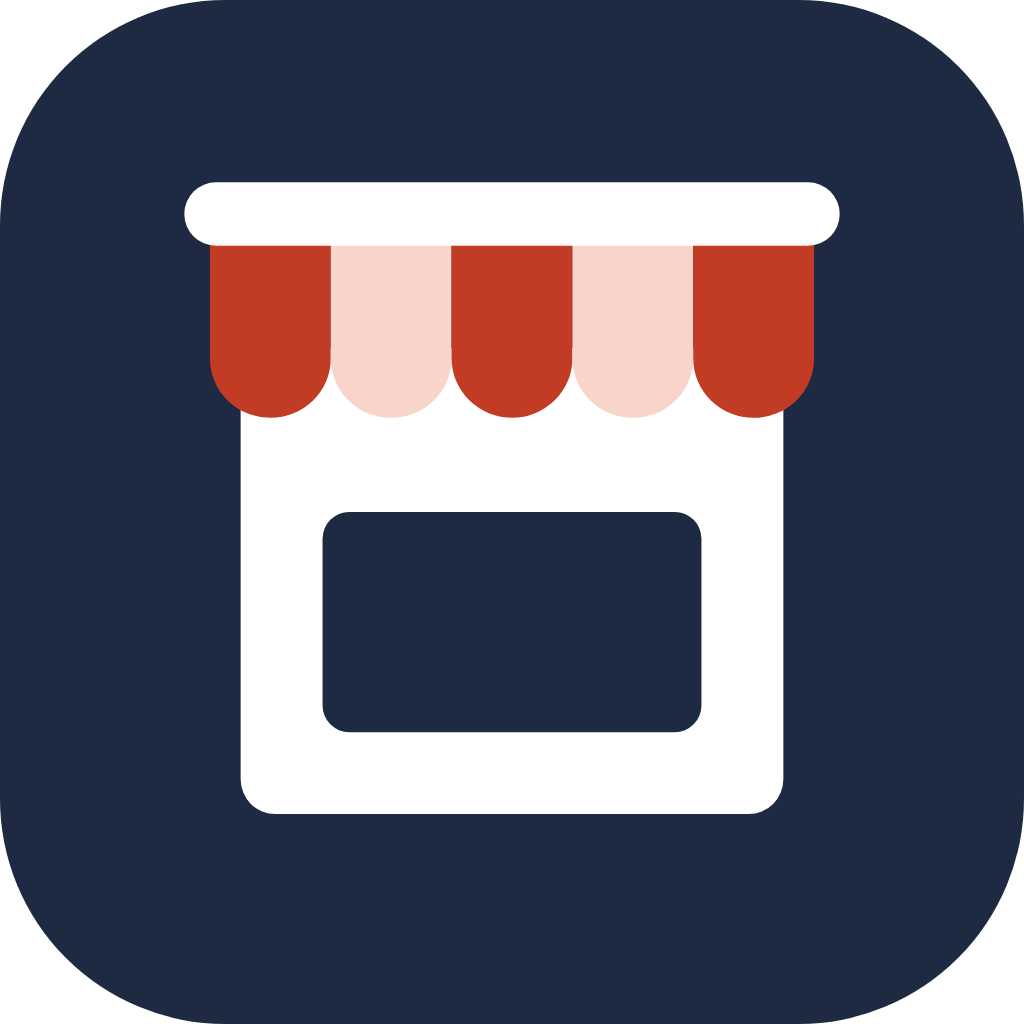
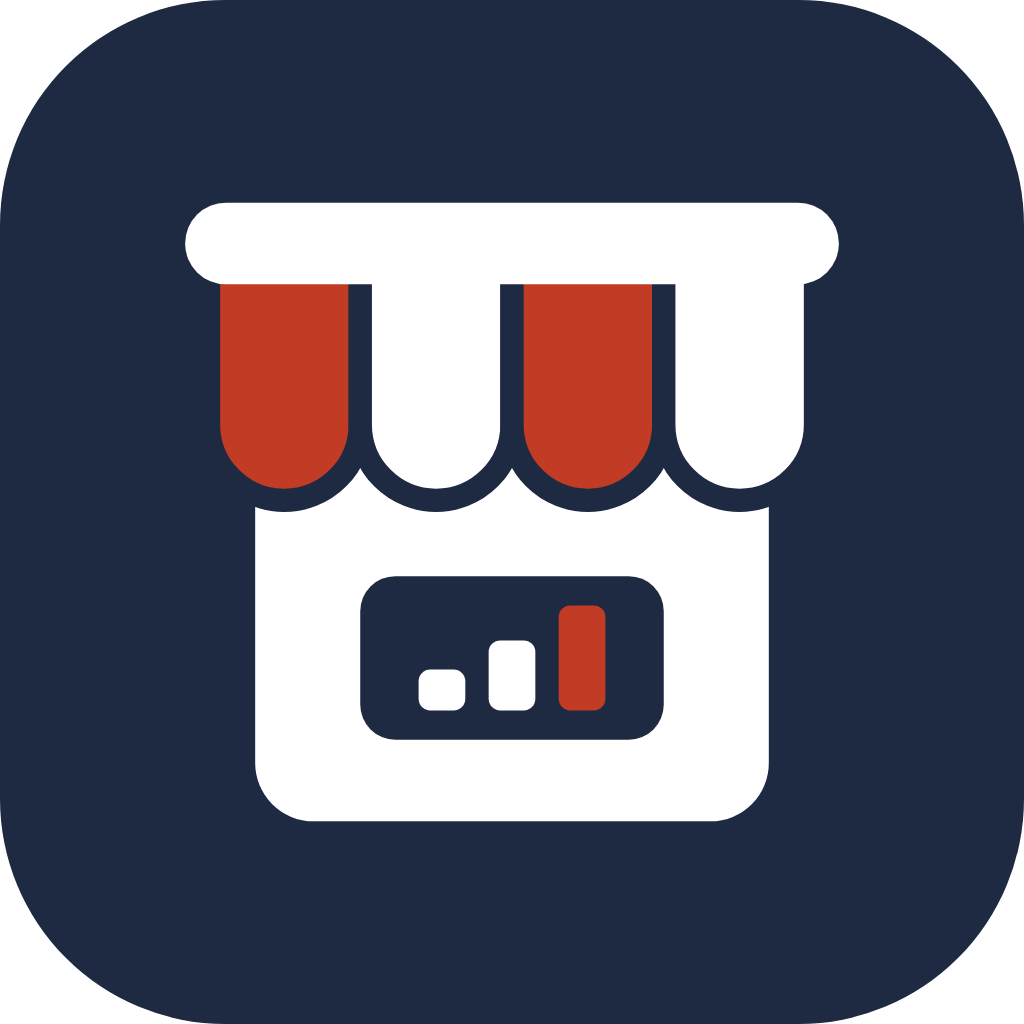
İkon: kırmızı-beyaz tenteli dükkân, vitrinde büyüme grafiği
İkon, profil fotoğrafı ve site simgesi yenilendi; beyaz zeminli profil
fotoğrafı ve zeminsiz işaret dosyaları eklendi.

Changed region(s): [[0.1562, 0.1562, 0.8438, 0.8125]]

diff --git a/README.md b/README.md
@@ -13,9 +13,10 @@ Tente Dijital'in tek sayfalık tanıtım sitesi. Derleme adımı yok: düz HTML 
 | `assets/style.css` | Tasarım |
 | `assets/logo.svg`, `logo.png` | Ana logo (açık zemin) |
 | `assets/logo-beyaz.svg`, `logo-beyaz.png` | Koyu zemin için logo |
-| `assets/ikon.svg`, `ikon-1024.png` | İkon: tenteli dükkân, lacivert zemin |
+| `assets/isaret.svg`, `isaret-beyaz.svg` | Tenteli dükkân işareti, zeminsiz (açık / koyu zemin için) |
+| `assets/ikon.svg`, `ikon-1024.png` | İkon: tenteli dükkân, vitrinde büyüme grafiği, lacivert zemin |
 | `assets/ikon-acik.svg`, `ikon-acik-1024.png` | İkon: beyaz zemin |
-| `assets/profil-1024.png` | WhatsApp / Instagram profil fotoğrafı (daire kesimine uygun) |
+| `assets/profil-1024.png`, `profil-acik-1024.png` | WhatsApp / Instagram profil fotoğrafı, lacivert ve beyaz (daire kesimine uygun) |
 | `assets/favicon.svg`, `apple-touch-icon.png` | Tarayıcı ve telefon simgesi |
 | `assets/og.png` | Link paylaşınca çıkan önizleme görseli (1200×630) |
 | `assets/ornek-tuzla.jpg` | Örnek çalışma görseli |
